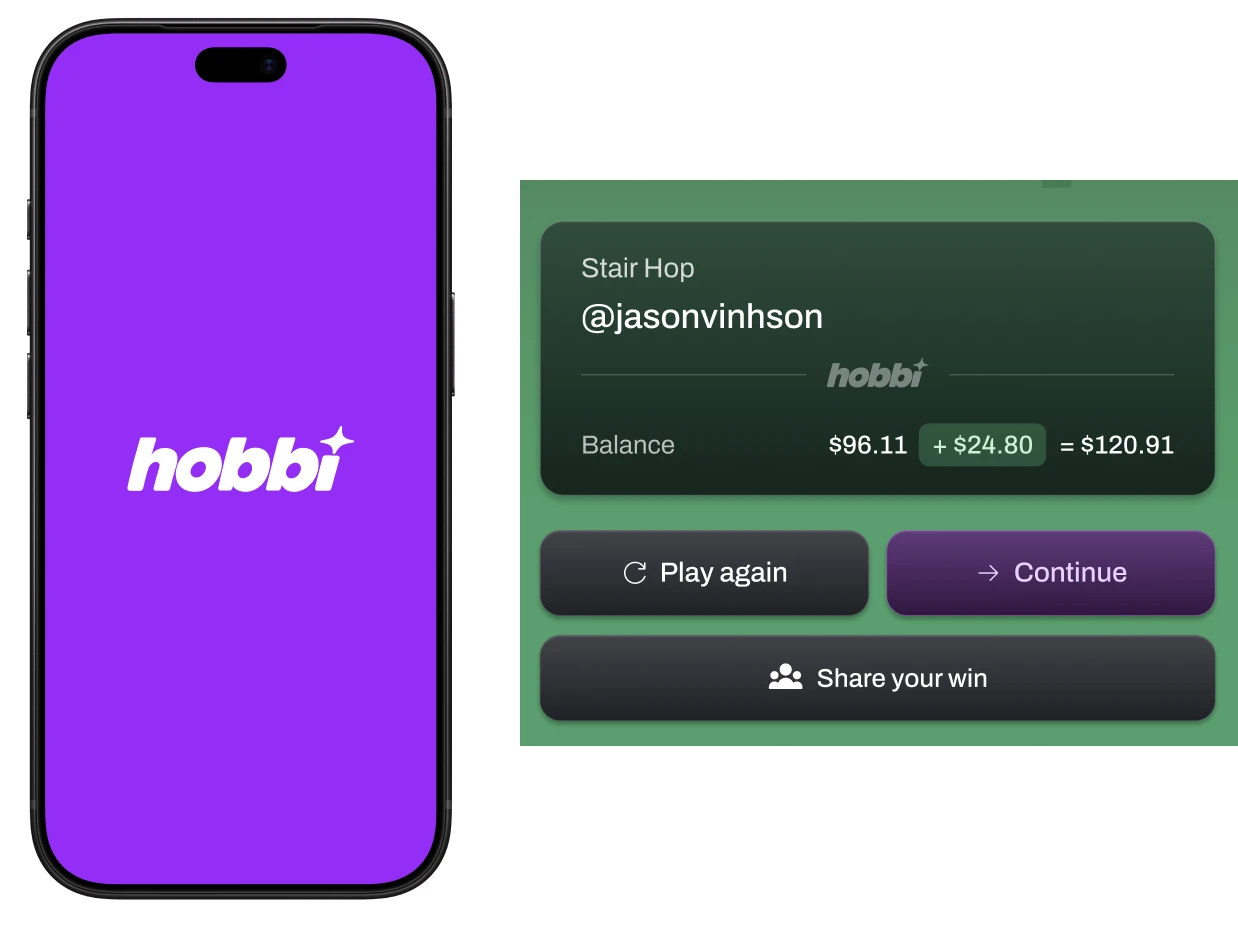
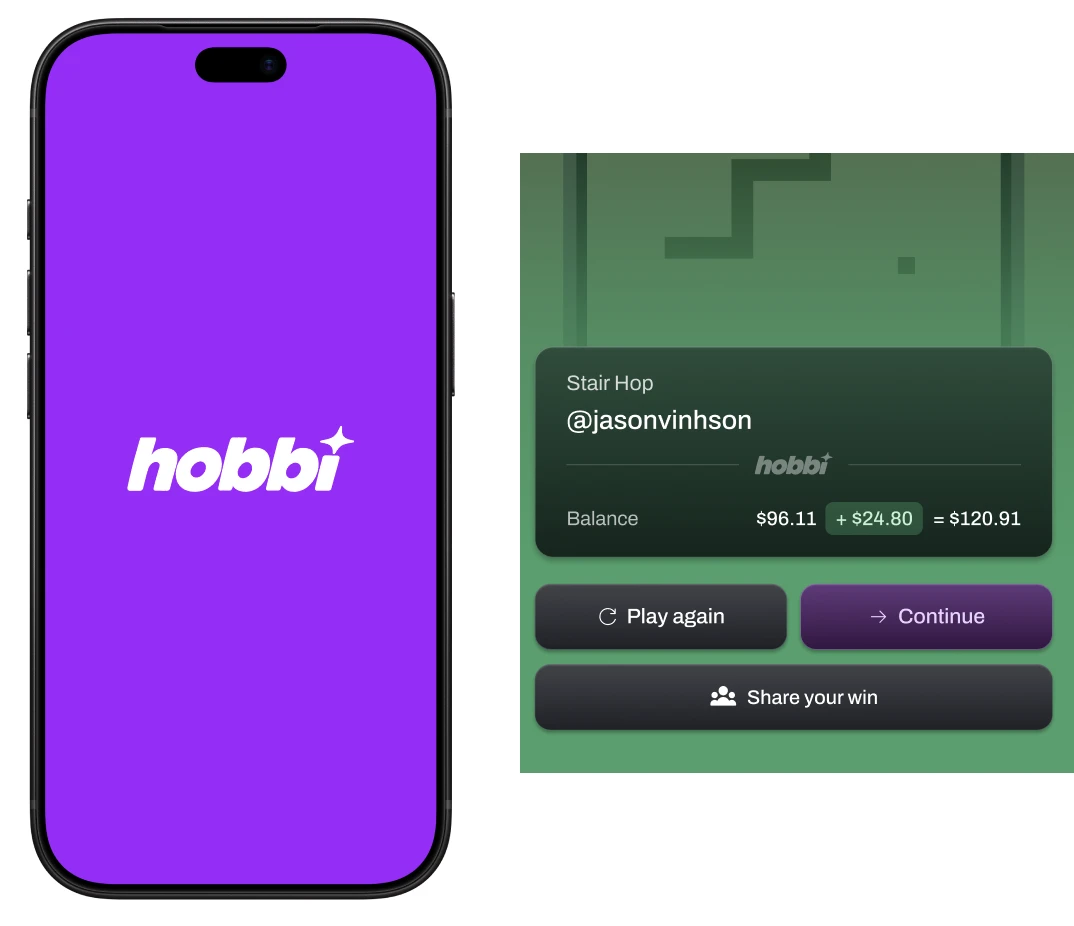
Update Hobbi card screenshot

diff --git a/src/presets/content.ts b/src/presets/content.ts
@@ -61,7 +61,7 @@ export const sections: Section[] = [
         date: "11 2026",
         title: "Hobbi",
         category: "Work",
-        image: { src: "/assets/records/hobbi.webp", width: 1238, height: 926 },
+        image: { src: "/assets/records/hobbi.webp", width: 1074, height: 926 },
       },
       {
         date: "10 2026",
